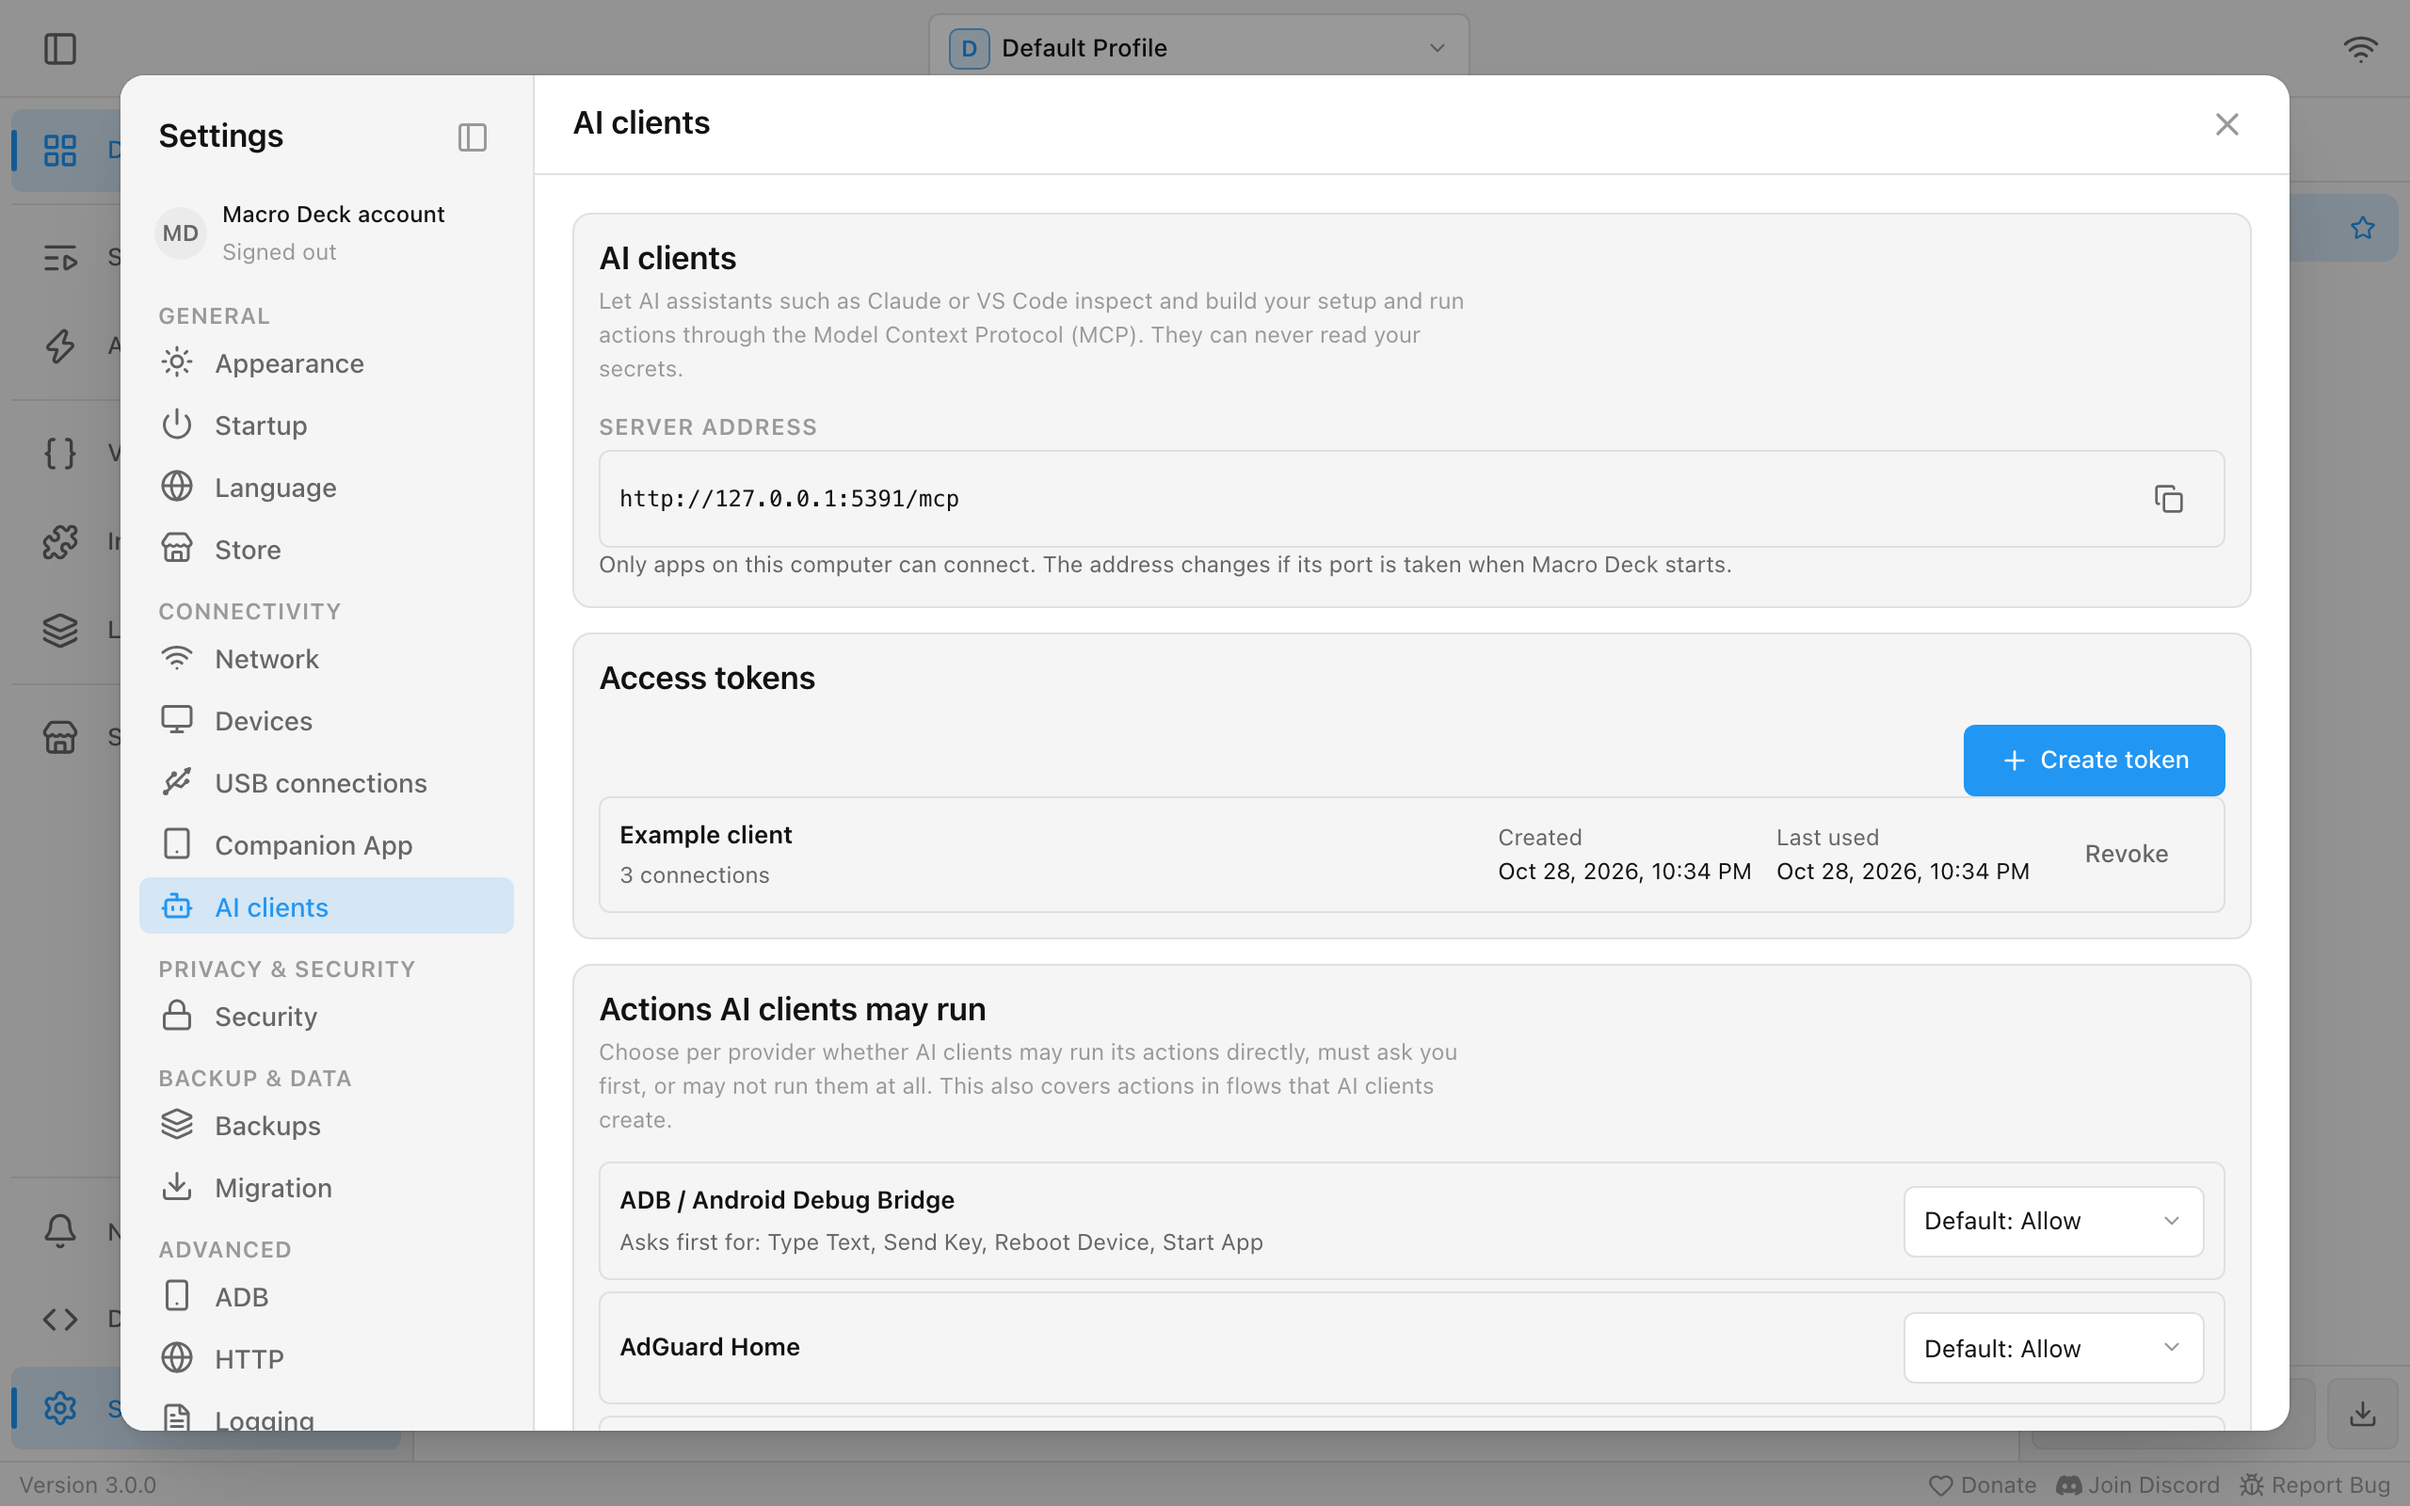
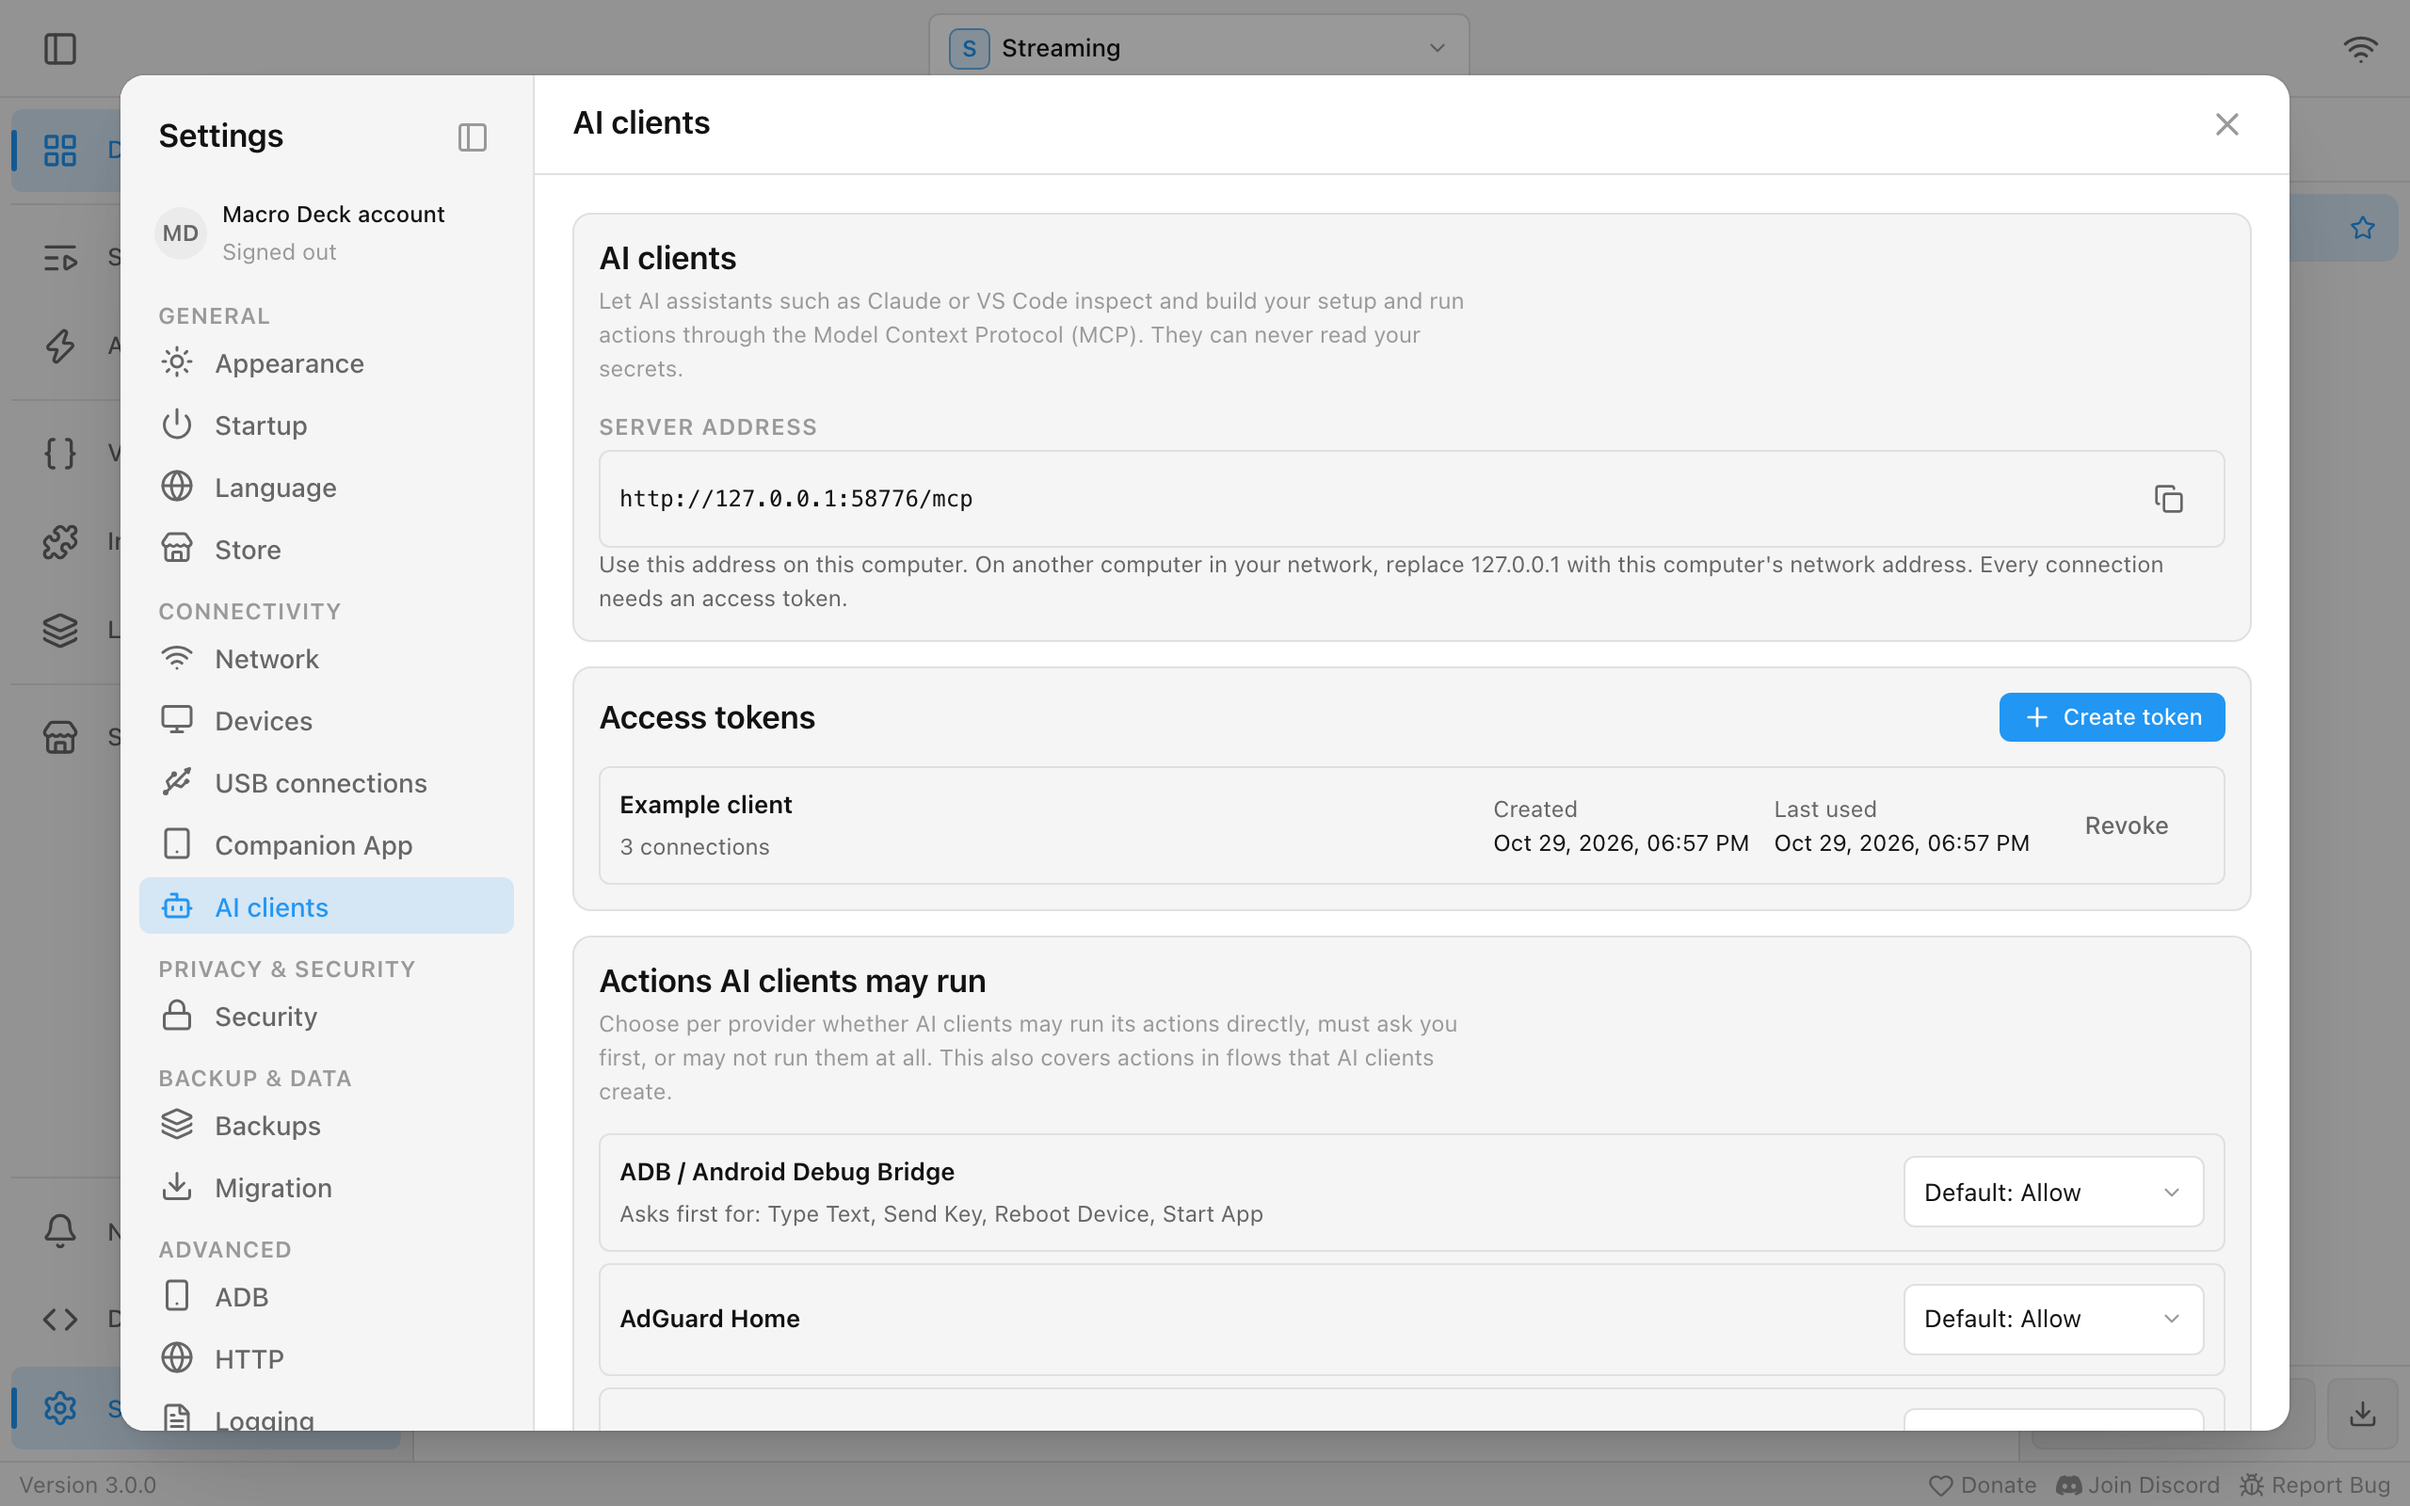
Explain connecting AI clients over the network in the guide

diff --git a/docs/src/content/docs/guide/troubleshooting.md b/docs/src/content/docs/guide/troubleshooting.md
@@ -529,10 +529,13 @@ First check that Macro Deck is running. If Macro Deck asks you to **Enter your r
 ring is locked and AI clients cannot connect until you unlock it with your backup recovery key. Then look
 for the case that fits.
 
-- **It stopped connecting after Macro Deck restarted.** Macro Deck may have picked a new port. Copy
-  **Server address** from **Settings > AI clients** into your client's configuration again. The Claude
-  Desktop extension finds the new port on its own. A request that was running while Macro Deck restarted
-  can fail once; ask again.
+- **It stopped connecting after you changed the port** in **Settings > Network**. Copy **Server
+  address** from **Settings > AI clients** into your client's configuration again. The Claude Desktop
+  extension finds Macro Deck on its own. A request that was running while Macro Deck restarted can fail
+  once; ask again.
+- **It runs on another computer and cannot reach Macro Deck.** Check that the configuration uses the
+  network address of the computer running Macro Deck instead of `127.0.0.1`, and go through the network
+  checks under [A device cannot connect](#a-device-cannot-connect).
 - **It is rejected (401 Unauthorized), or the extension says the access token was rejected.** The token
   was revoked or removed. Create a new token in **Settings > AI clients** and update your client's
   configuration, or install the Claude Desktop extension again from a new download.

diff --git a/docs/src/content/docs/guide/ai-clients.md b/docs/src/content/docs/guide/ai-clients.md
@@ -50,9 +50,13 @@ While the new token is shown, choose your client under **AI client**, then copy 
 
 Macro Deck never edits a client's configuration for you.
 
-These configurations contain the address under **Server address**. Macro Deck keeps that address, but if
-its port is taken when Macro Deck starts, it picks another one. Copy the new address into your client's
-configuration then.
+These configurations contain the address under **Server address**, which uses the port shown in
+**Settings > Network**. It stays the same until you change that port.
+
+To use an AI client on another computer in your network, replace `127.0.0.1` in the configuration with
+the network address of the computer running Macro Deck, and allow Macro Deck through its firewall as for
+your other devices. The access token is what keeps other people in your network out, so treat it like a
+password. On a network you do not trust, connect only clients on this computer.
 
 ## What an AI client can and cannot do
 
